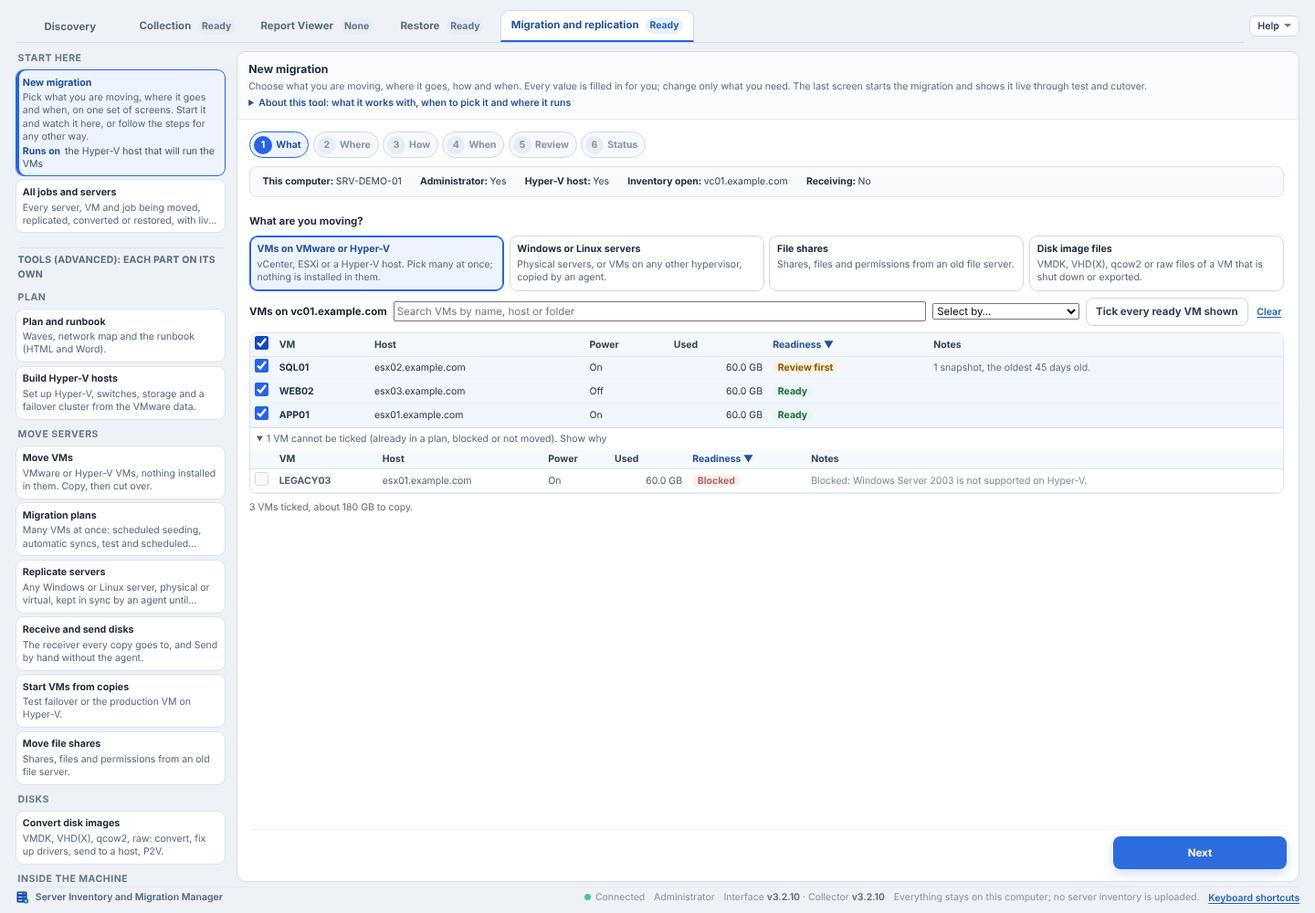
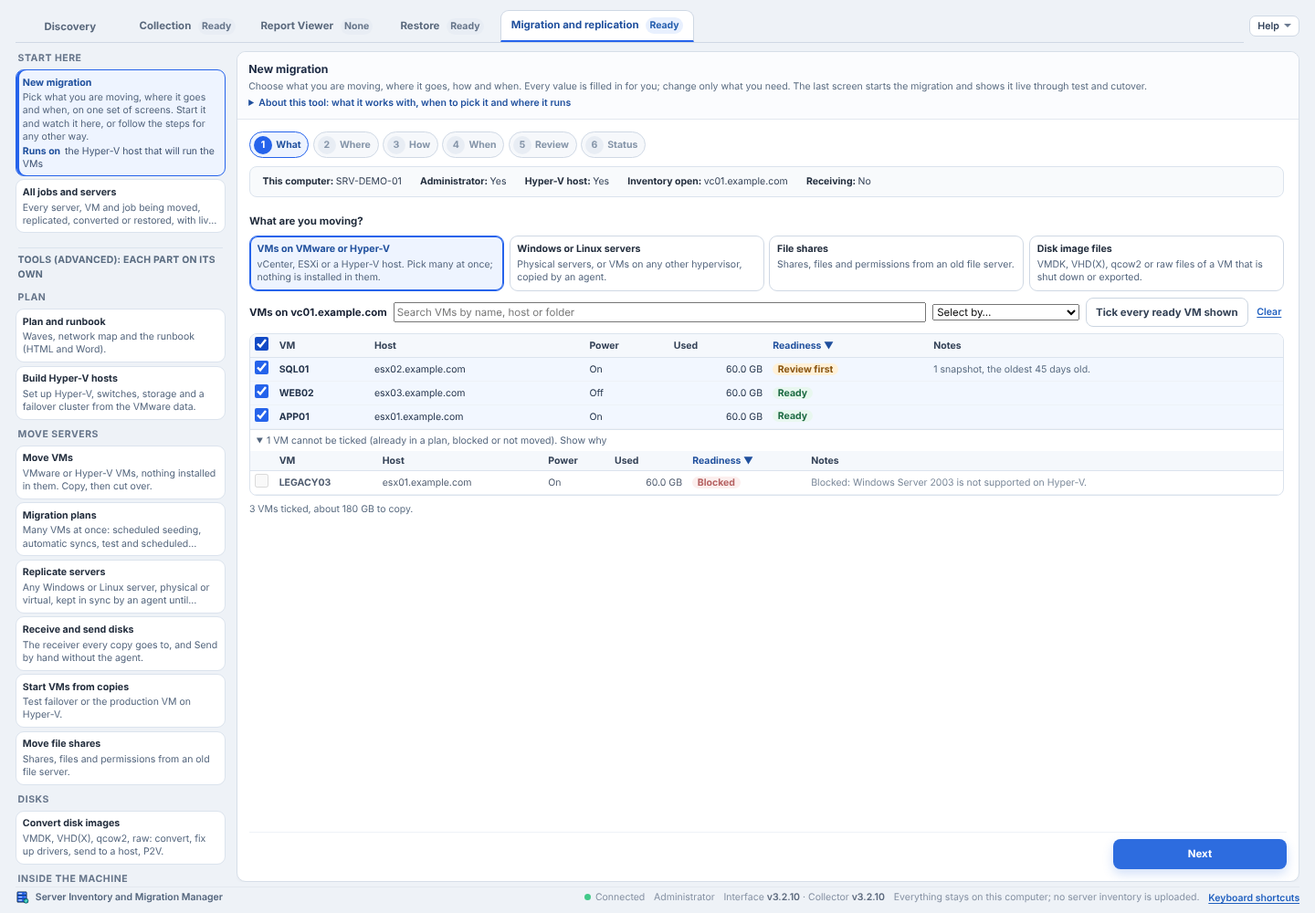
Keep controls together and apart: no stretched rows, touching or uneven controls
The owner found the cutover tick box stretched away from its label and
the Migration plans cutover panel's date field, tick box and buttons
touching at uneven heights. Width rules now name text inputs only, tick
boxes keep their size, action rows wrap with consistent gaps, buttons
share one height, stacked cards keep a gap, and the saved-defaults bar
and collection profile buttons no longer stretch. A workspace check now
fails on stretched tick boxes, touching or overlapping controls, uneven
buttons in a row, touching boxes and text cut off at the side.

Claude-Session: https://claude.ai/code/session_01AkZzWGj39Jf2hK2GLp79AC

Changed region(s): [[0.1875, 0.31, 0.9375, 0.558], [0.4688, 0.496, 0.8125, 0.558]]

diff --git a/src/app/index.html b/src/app/index.html
@@ -94,10 +94,10 @@ img, svg { -webkit-user-drag: none; }
 .action-bar { display: flex; align-items: center; justify-content: space-between; gap: calc(14*var(--sp)); margin-top: calc(18*var(--sp)); padding-top: calc(18*var(--sp)); border-top: 1px solid #e7ecf2; }
 .scope-note { color: #798699; font-size: max(10.5px,calc(11*var(--fz))); max-width: 590px; }
 .primary-button, .secondary-button { border-radius: 8px; font-weight: 650; }
-.primary-button { min-width: 190px; height: calc(44*var(--fz)); border: 0; background: #2d6cdf; color: #fff; box-shadow: 0 5px 12px rgba(45,108,223,.22); padding: 0 calc(18*var(--sp)); }
+.primary-button { min-width: 190px; height: calc(40*var(--fz)); border: 0; background: #2d6cdf; color: #fff; box-shadow: 0 5px 12px rgba(45,108,223,.22); padding: 0 calc(18*var(--sp)); }
 .primary-button:hover { background: #245fbf; }
 .primary-button:disabled { background: #a6b3c6; box-shadow: none; cursor: default; }
-.secondary-button { min-height: calc(38*var(--fz)); border: 1px solid #cbd5e1; background: #fff; color: #334155; padding: 0 calc(14*var(--sp)); }
+.secondary-button { min-height: calc(40*var(--fz)); border: 1px solid #cbd5e1; background: #fff; color: #334155; padding: 0 calc(14*var(--sp)); }
 .secondary-button:hover:not(:disabled) { background: #f4f7fa; }
 .secondary-button:disabled { opacity: .5; cursor: default; }
 .danger-button { color: #a33b3b; border-color: #e3b7b7; background: #fffafa; }
@@ -175,7 +175,7 @@ img, svg { -webkit-user-drag: none; }
   .report-frame, .report-empty { min-height: 620px; height: 720px; }
 }
 
-.scope-heading,.scope-panel-head{display:flex;align-items:flex-start;justify-content:space-between;gap:calc(18*var(--sp));flex-wrap:wrap}.scope-buttons{display:flex;gap:calc(8*var(--sp));flex-wrap:wrap}.preset-button{min-height:calc(38*var(--fz))}.scope-panel{margin-top:calc(18*var(--sp));border:1px solid var(--border);border-radius:14px;padding:calc(16*var(--sp));background:rgba(255,255,255,.025)}.scope-title{font-weight:700;font-size:max(10.5px,calc(15*var(--fz)));margin-bottom:calc(4*var(--sp))}.scope-count{font-size:max(10.5px,calc(12*var(--fz)));color:var(--muted);font-weight:700;white-space:nowrap}.category-grid{display:grid;grid-template-columns:repeat(3,minmax(0,1fr));gap:calc(9*var(--sp));margin-top:calc(14*var(--sp))}.category-grid.compact{grid-template-columns:repeat(3,minmax(0,1fr))}.category-check{display:flex;gap:calc(10*var(--sp));align-items:flex-start;border:1px solid var(--border);border-radius:10px;padding:calc(10*var(--sp)) calc(11*var(--sp));background:var(--panel);cursor:pointer;min-width:0}.category-check:has(input:checked){border-color:var(--accent);background:var(--accent-soft)}.category-check input{margin-top:calc(3*var(--sp));flex:0 0 auto}.category-check span{min-width:0}.category-check strong{display:block;font-size:max(10.5px,calc(13*var(--fz)));line-height:1.25}.category-check small{display:block;color:var(--muted);font-size:max(10.5px,calc(11*var(--fz)));line-height:1.35;margin-top:calc(3*var(--sp))}.category-setting{margin-top:calc(13*var(--sp))}.export-panel{border-style:dashed}.sensitive-inline{margin-top:calc(14*var(--sp))}.sensitive-choice{border-color:rgba(235,180,70,.35)}@media(min-width:1800px){.category-grid,.category-grid.compact{grid-template-columns:repeat(4,minmax(0,1fr))}}@media(min-width:2300px){.category-grid,.category-grid.compact{grid-template-columns:repeat(5,minmax(0,1fr))}}@media(max-width:1100px){.category-grid,.category-grid.compact{grid-template-columns:repeat(2,minmax(0,1fr))}}@media(max-width:720px){.category-grid,.category-grid.compact{grid-template-columns:1fr}}
+.scope-heading{justify-content:flex-start!important}.scope-heading,.scope-panel-head{display:flex;align-items:flex-start;justify-content:space-between;gap:calc(18*var(--sp));flex-wrap:wrap}.scope-buttons{display:flex;gap:calc(8*var(--sp));flex-wrap:wrap}.preset-button{min-height:calc(38*var(--fz))}.scope-panel{margin-top:calc(18*var(--sp));border:1px solid var(--border);border-radius:14px;padding:calc(16*var(--sp));background:rgba(255,255,255,.025)}.scope-title{font-weight:700;font-size:max(10.5px,calc(15*var(--fz)));margin-bottom:calc(4*var(--sp))}.scope-count{font-size:max(10.5px,calc(12*var(--fz)));color:var(--muted);font-weight:700;white-space:nowrap}.category-grid{display:grid;grid-template-columns:repeat(3,minmax(0,1fr));gap:calc(9*var(--sp));margin-top:calc(14*var(--sp))}.category-grid.compact{grid-template-columns:repeat(3,minmax(0,1fr))}.category-check{display:flex;gap:calc(10*var(--sp));align-items:flex-start;border:1px solid var(--border);border-radius:10px;padding:calc(10*var(--sp)) calc(11*var(--sp));background:var(--panel);cursor:pointer;min-width:0}.category-check:has(input:checked){border-color:var(--accent);background:var(--accent-soft)}.category-check input{margin-top:calc(3*var(--sp));flex:0 0 auto}.category-check span{min-width:0}.category-check strong{display:block;font-size:max(10.5px,calc(13*var(--fz)));line-height:1.25}.category-check small{display:block;color:var(--muted);font-size:max(10.5px,calc(11*var(--fz)));line-height:1.35;margin-top:calc(3*var(--sp))}.category-setting{margin-top:calc(13*var(--sp))}.export-panel{border-style:dashed}.sensitive-inline{margin-top:calc(14*var(--sp))}.sensitive-choice{border-color:rgba(235,180,70,.35)}@media(min-width:1800px){.category-grid,.category-grid.compact{grid-template-columns:repeat(4,minmax(0,1fr))}}@media(min-width:2300px){.category-grid,.category-grid.compact{grid-template-columns:repeat(5,minmax(0,1fr))}}@media(max-width:1100px){.category-grid,.category-grid.compact{grid-template-columns:repeat(2,minmax(0,1fr))}}@media(max-width:720px){.category-grid,.category-grid.compact{grid-template-columns:1fr}}
 
 
 /* Executable updater banner. */
@@ -398,7 +398,7 @@ kbd{display:inline-block;min-width:20px;padding:1px calc(6*var(--sp));border:1px
 .restore-confirm-input{display:block;box-sizing:border-box;width:100%;height:calc(34*var(--fz));margin-top:calc(6*var(--sp));border:1px solid #bcc9d9;border-radius:7px;padding:0 calc(10*var(--sp));font:inherit}
 .restore-dialog-actions{display:flex;justify-content:flex-end;flex-wrap:wrap;gap:calc(8*var(--sp));padding:calc(10*var(--sp)) calc(18*var(--sp)) calc(14*var(--sp));border-top:1px solid #e3e8ef}
 .restore-dialog-error{margin-top:calc(8*var(--sp));color:#a33b3b;font-size:max(10.5px,calc(12*var(--fz)));font-weight:600}
-.cfm-tick{display:flex;align-items:flex-start;gap:calc(8*var(--sp));margin-top:calc(8*var(--sp));font-size:max(10.5px,calc(12.5*var(--fz)));font-weight:600;color:#23334b;line-height:1.35;cursor:pointer}.cfm-tick input{margin:2px 0 0;flex:0 0 auto;width:15px;height:15px}
+.cfm-tick{display:flex;align-items:flex-start;gap:calc(8*var(--sp));margin-top:calc(8*var(--sp));font-size:max(10.5px,calc(12.5*var(--fz)));font-weight:600;color:#23334b;line-height:1.35;cursor:pointer}.cfm-tick input[type=checkbox]{margin:2px 0 0!important;flex:0 0 auto!important;width:15px!important;min-width:0!important;max-width:none!important;height:15px!important;display:inline-block!important;padding:0!important}
 .cfm-hint{color:#5b6b80;font-size:max(10.5px,calc(12*var(--fz)))}
 .cfm-styles{border:0;margin:0;padding:0;display:grid;gap:calc(8*var(--sp))}.cfm-styles legend{font-weight:650;color:#23334b;margin-bottom:calc(6*var(--sp));padding:0}
 .cfm-style{display:flex;gap:calc(10*var(--sp));align-items:flex-start;border:1px solid #d6dde8;border-radius:9px;padding:calc(8*var(--sp)) calc(10*var(--sp));cursor:pointer}.cfm-style input{margin-top:calc(3*var(--sp))}.cfm-style span{display:grid;gap:2px}.cfm-style small{color:#5b6b80;font-size:max(10.5px,calc(12*var(--fz)))}.cfm-style:has(input:checked){border-color:#2f6fb5;background:#f2f7fd}
@@ -503,7 +503,7 @@ kbd{display:inline-block;min-width:20px;padding:1px calc(6*var(--sp));border:1px
 .vm-wave-title{flex:1 1 120px;min-width:0;height:calc(28*var(--fz));border:1px solid #bcc9d9;border-radius:6px;padding:0 calc(8*var(--sp));font:inherit;font-size:max(10.5px,calc(12.5*var(--fz)));font-weight:600}
 .vm-wave-when{display:flex;align-items:center;gap:calc(4*var(--sp));font-size:max(10.5px,calc(11.5*var(--fz)));color:#52647c}.vm-wave-when input{height:calc(28*var(--fz));border:1px solid #bcc9d9;border-radius:6px;padding:0 calc(4*var(--sp));font:inherit;font-size:max(10.5px,calc(11.5*var(--fz)));max-width:190px}
 .vm-wave-stats{font-size:max(10.5px,calc(11.5*var(--fz)));color:#52647c}.vm-wave-reason{font-size:max(10.5px,calc(11.5*var(--fz)));color:#334156;background:#f2f6fb;border-radius:6px;padding:calc(5*var(--sp)) calc(7*var(--sp))}
-.vm-wave-vms{display:flex;flex-direction:column;gap:calc(4*var(--sp));max-height:260px;overflow:auto}
+.vm-wave-vms{display:flex;flex-direction:column;gap:max(5px,calc(5*var(--sp)));max-height:260px;overflow:auto}
 .vm-wave-vm{display:flex;align-items:center;gap:calc(7*var(--sp));border:1px solid #e0e6ee;border-radius:7px;padding:calc(4*var(--sp)) calc(6*var(--sp));background:#fff;cursor:grab}.vm-wave-vm.picked{border-color:#8fb0ec;background:#eef4ff}.vm-wave-vm input{width:15px;height:15px;margin:0;flex:none;accent-color:#2563eb}
 .vm-wave-vm-text{flex:1;min-width:0;display:flex;flex-direction:column}.vm-wave-vm-text strong{font-size:max(10.5px,calc(12*var(--fz)));overflow-wrap:anywhere}.vm-wave-vm-text .vm-sub{font-size:max(10.5px,calc(11*var(--fz)));white-space:nowrap;overflow:hidden;text-overflow:ellipsis}.vm-wave-vm .run-chip{min-width:0}
 .vm-wave-notes{height:calc(28*var(--fz));border:1px solid #d5dfec;border-radius:6px;padding:0 calc(8*var(--sp));font:inherit;font-size:max(10.5px,calc(11.5*var(--fz)))}
@@ -642,7 +642,7 @@ kbd{display:inline-block;min-width:20px;padding:1px calc(6*var(--sp));border:1px
 .rp-chip{display:inline-block;padding:2px calc(8*var(--sp));border-radius:10px;border:1px solid #d6e0ee;background:#f5f8fd;font-size:max(10.5px,calc(11*var(--fz)));color:#334156;white-space:nowrap}.rp-chip.good{border-color:#a7d8b8;background:#f2fbf5;color:#1f6a3a}.rp-chip.warning{border-color:#f0cf8a;background:#fff9ea;color:#74551f}.rp-chip.danger{border-color:#f1b3ad;background:#fff4f3;color:#9b2c22}
 .rp-jobs{margin-top:calc(8*var(--sp))}.rp-error{margin-top:calc(6*var(--sp));color:#9b2c22}.rp-editor,.rp-details{margin-top:calc(12*var(--sp))}.rp-disk-row{display:grid;grid-template-columns:minmax(0,1.4fr) minmax(0,1fr);gap:calc(4*var(--sp)) calc(12*var(--sp));align-items:end;padding:calc(6*var(--sp)) 0;border-bottom:1px solid #eef2f7}.rp-target select,.rp-target input{width:100%}.rp-disk-table{margin-top:calc(10*var(--sp))}
 @media (max-width:900px){.rp-grid,.rp-two,.rp-disk-row{grid-template-columns:minmax(0,1fr)}}
-.mp-body{display:flex;flex-direction:column;gap:calc(12*var(--sp));overflow-y:auto;overflow-x:hidden;min-height:0;flex:1 1 auto}.mp-plans{display:flex;flex-wrap:wrap;gap:calc(6*var(--sp));align-items:center}.mp-plan-button[aria-pressed="true"]{border-color:#2563eb;box-shadow:inset 0 0 0 1px #2563eb;background:#f7faff}.mp-open-note{padding:calc(8*var(--sp)) calc(10*var(--sp));border:1px solid #dbe3ed;border-radius:8px;background:#fbfcfe}.mp-open-note ul{margin:calc(4*var(--sp)) 0 0 calc(18*var(--sp));padding:0}.mp-picker{max-height:260px;overflow:auto;border:1px solid #dbe3ed;border-radius:8px;padding:calc(4*var(--sp)) calc(8*var(--sp));background:#fff}.mp-pick{display:flex;gap:calc(8*var(--sp));align-items:center;padding:calc(3*var(--sp)) 0;border-bottom:1px solid #f0f3f8;font-size:max(10.5px,calc(12.5*var(--fz)))}.mp-pick:last-child{border-bottom:0}.mp-pick .vm-note{margin-left:auto}.mp-pick.disabled{color:#7a8597}.mp-checks{display:grid;grid-template-columns:repeat(2,minmax(0,1fr));gap:calc(4*var(--sp)) calc(14*var(--sp));margin-top:calc(6*var(--sp))}.mp-checks label{font-size:max(10.5px,calc(12.5*var(--fz)));display:flex;gap:calc(6*var(--sp));align-items:flex-start}.mp-three{display:grid;grid-template-columns:repeat(3,minmax(0,1fr));gap:calc(8*var(--sp)) calc(12*var(--sp))}.mp-advice{padding:calc(8*var(--sp)) calc(10*var(--sp));border:1px solid #c9d6ea;border-radius:8px;background:#f5f8fd;font-size:max(10.5px,calc(12.5*var(--fz)))}.mp-actions{display:flex;flex-wrap:wrap;gap:calc(6*var(--sp));align-items:center}.mp-actions button{min-height:calc(30*var(--fz));padding:2px calc(12*var(--sp));font-size:max(10.5px,calc(12.5*var(--fz)))}.mp-actions input{max-width:220px}.mp-table td{vertical-align:top}.mp-table .vm-note{display:block}.mp-err{color:#9b2c22;font-size:max(10.5px,calc(12*var(--fz)));overflow-wrap:anywhere}.mp-notes{color:#1f6a3a;font-size:max(10.5px,calc(12*var(--fz)))}
+.mp-body{display:flex;flex-direction:column;gap:calc(12*var(--sp));overflow-y:auto;overflow-x:hidden;min-height:0;flex:1 1 auto}.mp-plans{display:flex;flex-wrap:wrap;gap:calc(6*var(--sp));align-items:center}.mp-plan-button[aria-pressed="true"]{border-color:#2563eb;box-shadow:inset 0 0 0 1px #2563eb;background:#f7faff}.mp-open-note{padding:calc(8*var(--sp)) calc(10*var(--sp));border:1px solid #dbe3ed;border-radius:8px;background:#fbfcfe}.mp-open-note ul{margin:calc(4*var(--sp)) 0 0 calc(18*var(--sp));padding:0}.mp-picker{max-height:260px;overflow:auto;border:1px solid #dbe3ed;border-radius:8px;padding:calc(4*var(--sp)) calc(8*var(--sp));background:#fff}.mp-pick{display:flex;gap:calc(8*var(--sp));align-items:center;padding:calc(3*var(--sp)) 0;border-bottom:1px solid #f0f3f8;font-size:max(10.5px,calc(12.5*var(--fz)))}.mp-pick:last-child{border-bottom:0}.mp-pick .vm-note{margin-left:auto}.mp-pick.disabled{color:#7a8597}.mp-checks{display:grid;grid-template-columns:repeat(2,minmax(0,1fr));gap:calc(4*var(--sp)) calc(14*var(--sp));margin-top:calc(6*var(--sp))}.mp-checks label{font-size:max(10.5px,calc(12.5*var(--fz)));display:flex;gap:calc(6*var(--sp));align-items:flex-start}.mp-three{display:grid;grid-template-columns:repeat(3,minmax(0,1fr));gap:calc(8*var(--sp)) calc(12*var(--sp))}.mp-advice{padding:calc(8*var(--sp)) calc(10*var(--sp));border:1px solid #c9d6ea;border-radius:8px;background:#f5f8fd;font-size:max(10.5px,calc(12.5*var(--fz)))}.mp-actions{display:flex;flex-wrap:wrap;gap:calc(10*var(--sp)) calc(12*var(--sp));align-items:flex-end;margin-top:calc(8*var(--sp))}.mp-actions .cfm-tick{margin:0 0 calc(7*var(--sp));align-items:center}.mp-actions .vm-field{margin-top:0}.mp-actions:not(:has(.vm-field)){align-items:center}.mp-actions .vm-field input{height:calc(32*var(--fz));box-sizing:border-box;border:1px solid #bcc9d9;border-radius:7px;padding:0 calc(9*var(--sp));font:inherit;font-size:max(10.5px,calc(13*var(--fz)));background:#fff;color:inherit}:not(.migrate-cards)>.migrate-card+.migrate-card,.mp-actions+.migrate-card{margin-top:max(8px,calc(12*var(--sp)))}.mp-actions button{height:auto;min-width:0;min-height:calc(32*var(--fz));padding:2px calc(12*var(--sp));font-size:max(10.5px,calc(12.5*var(--fz)))}.mp-actions input{max-width:220px}.mp-table td{vertical-align:top}.mp-table .vm-note{display:block}.mp-err{color:#9b2c22;font-size:max(10.5px,calc(12*var(--fz)));overflow-wrap:anywhere}.mp-notes{color:#1f6a3a;font-size:max(10.5px,calc(12*var(--fz)))}
 @media (max-width:900px){.mp-checks,.mp-three{grid-template-columns:minmax(0,1fr)}}
 .vm-flow-arrow{color:#52647c;white-space:nowrap}
 .vm-guest-cards{grid-template-columns:repeat(2,minmax(0,1fr))}
@@ -723,7 +723,7 @@ kbd{display:inline-block;min-width:20px;padding:1px calc(6*var(--sp));border:1px
 .nw-rolling-stage{margin-bottom:calc(6*var(--sp))}
 .nw-rolling-head{display:flex;gap:calc(8*var(--sp));align-items:center}
 .profile-bar .migrate-row{align-items:flex-end;flex-wrap:wrap;gap:calc(8*var(--sp))}
-.profile-bar .vm-field{min-width:200px}
+.profile-bar .vm-field{min-width:200px;flex:0 1 280px;margin-top:0}.profile-bar{margin-bottom:calc(12*var(--sp))}.profile-bar .migrate-row{align-items:flex-end}.profile-bar select,.profile-bar .vm-field input[type=text]{height:calc(34*var(--fz));box-sizing:border-box;border:1px solid #bcc9d9;border-radius:7px;padding:0 calc(9*var(--sp));font:inherit;font-size:max(10.5px,calc(13*var(--fz)));background:#fff;color:inherit}.profile-bar .link-button{height:calc(34*var(--fz))}.migrate-row .vm-field input[type=text],.migrate-row .vm-field input[type=password],.migrate-row .vm-field select{flex:0 0 auto;max-width:none;width:100%}
 .mp-go-list{display:grid;grid-template-columns:repeat(auto-fit,minmax(300px,1fr));gap:calc(8*var(--sp))}
 .mp-go{border:1px solid var(--line);border-radius:8px;padding:calc(8*var(--sp)) calc(10*var(--sp));background:var(--panel)}
 .mp-go-head{display:flex;align-items:center;gap:calc(8*var(--sp));margin-bottom:calc(4*var(--sp))}
@@ -794,7 +794,7 @@ kbd{display:inline-block;min-width:20px;padding:1px calc(6*var(--sp));border:1px
 .gd-step:not(.current){cursor:pointer;padding-top:calc(7*var(--sp));padding-bottom:calc(7*var(--sp))}.gd-step:not(.current) .gd-text,.gd-step:not(.current) .gd-actions,.gd-step:not(.current) .gd-fix,.gd-step:not(.current) .gd-nav{display:none}.gd-step:not(.current) .gd-check{background:none;padding:0}
 .gd-step.current{border-color:#2563eb;box-shadow:0 0 0 2px rgba(37,99,235,.15)}.gd-step.optional:not(.current){opacity:.86}.gd-step.optional:not(.current) .gd-check{display:none}
 .gd-opt{padding:1px calc(8*var(--sp));border-radius:999px;background:#f1f4f8;color:#596b80;font-size:max(10.5px,calc(11*var(--fz)));font-weight:700}
-.gd-fix{display:flex;flex-wrap:wrap;align-items:center;gap:calc(6*var(--sp)) calc(10*var(--sp));padding:calc(8*var(--sp));border:1px dashed #efc2c2;border-radius:8px;background:#fff}.gd-fix input{min-width:200px}
+.gd-fix{display:flex;flex-wrap:wrap;align-items:center;gap:calc(6*var(--sp)) calc(10*var(--sp));padding:calc(8*var(--sp));border:1px dashed #efc2c2;border-radius:8px;background:#fff}.gd-fix input:not([type=checkbox]):not([type=radio]){min-width:200px}
 .gd-nav{display:flex;flex-wrap:wrap;gap:calc(8*var(--sp));justify-content:flex-end;border-top:1px solid #eef2f7;padding-top:calc(8*var(--sp))}
 .gd-optional-toggle{margin:2px 0 0}
 .tool-section-title{margin:calc(10*var(--sp)) calc(4*var(--sp)) 2px;padding-top:calc(8*var(--sp));border-top:1px solid #dbe3ed;font-size:max(10.5px,calc(11*var(--fz)));font-weight:700;letter-spacing:.02em;text-transform:uppercase;color:#596b80}
@@ -815,7 +815,7 @@ kbd{display:inline-block;min-width:20px;padding:1px calc(6*var(--sp));border:1px
 .nw-nav .primary-button{margin-left:auto}
 .nw-running{display:flex;flex-wrap:wrap;align-items:center;gap:calc(6*var(--sp)) calc(10*var(--sp));padding:calc(8*var(--sp)) calc(10*var(--sp));border:1px solid #c9d6ea;border-radius:9px;background:#f5f8fd;font-size:max(10.5px,calc(12.5*var(--fz)))}
 .nw-signin{display:flex;flex-direction:column;gap:calc(6*var(--sp));padding:calc(10*var(--sp)) calc(12*var(--sp));border:1px dashed #9db8e6;border-radius:9px;background:#fbfcfe}.nw-signin .migrate-help{margin:0}
-.nw-signin .migrate-row input{min-width:160px;flex:1}
+.nw-signin .migrate-row input:not([type=checkbox]):not([type=radio]){min-width:160px;flex:1}
 .nw-vm-head{display:flex;flex-wrap:wrap;align-items:center;gap:calc(6*var(--sp)) calc(10*var(--sp))}.nw-vm-head input[type=search]{flex:1;min-width:200px}
 .nw-vm-list{max-height:52vh;overflow:auto;border:1px solid #dbe3ed;border-radius:8px;background:#fff}
 .nw-vm-table{width:100%;border-collapse:collapse;font-size:max(10.5px,calc(12.5*var(--fz)))}.nw-vm-table th{position:sticky;top:0;background:#f5f8fc;z-index:1;text-align:left;padding:calc(4*var(--sp)) calc(8*var(--sp));border-bottom:1px solid #dbe3ed}.nw-vm-table td{padding:calc(4*var(--sp)) calc(8*var(--sp));border-bottom:1px solid #eef2f7;vertical-align:middle}
@@ -838,9 +838,9 @@ kbd{display:inline-block;min-width:20px;padding:1px calc(6*var(--sp));border:1px
 .nw-check-icon{min-width:34px;font-weight:700;font-size:max(10.5px,calc(11*var(--fz)));text-transform:uppercase}
 .nw-status-title{display:flex;flex-wrap:wrap;align-items:baseline;gap:calc(4*var(--sp)) calc(12*var(--sp))}.nw-status-title strong{font-size:max(10.5px,calc(15*var(--fz)))}.nw-status-tools{margin-left:auto;display:flex;flex-wrap:wrap;gap:calc(6*var(--sp)) calc(12*var(--sp));align-items:center}
 .nw-tiles{margin:calc(8*var(--sp)) 0 calc(4*var(--sp))}
-.nw-status-table{table-layout:fixed;width:100%}.nw-status-table td:nth-child(1){width:34px}.nw-status-table td:nth-child(2){width:24%}.nw-status-table td:nth-child(4){width:22%}
+.nw-status-table{table-layout:fixed;width:100%}.nw-status-table td:nth-child(1){width:34px}.nw-status-table td:nth-child(2){width:clamp(140px,15%,260px)}.nw-status-table td:nth-child(4){width:clamp(150px,16%,280px)}
 .nw-wave{margin-top:calc(8*var(--sp))}.nw-wave-head{display:flex;flex-wrap:wrap;align-items:baseline;gap:calc(4*var(--sp)) calc(12*var(--sp));margin-bottom:calc(4*var(--sp))}
-.nw-status-actions{display:flex;flex-wrap:wrap;align-items:center;gap:calc(6*var(--sp)) calc(10*var(--sp));padding-top:calc(8*var(--sp));border-top:1px solid #eef2f7}.nw-status-actions input{min-width:220px}
+.nw-status-actions{display:flex;flex-wrap:wrap;align-items:center;justify-content:flex-start;gap:calc(6*var(--sp)) calc(10*var(--sp));padding-top:calc(8*var(--sp));border-top:1px solid #eef2f7}.nw-status-actions>.vm-note{flex:1 0 100%}.nw-status-actions input[type=text]{min-width:220px}.nw-status-actions .cfm-tick{margin-top:0;align-items:center}.nw-status-actions .migrate-inline-status{flex:1 1 220px;margin:0;min-width:0}
 @media(max-width:900px){.nw-methods{grid-template-columns:1fr}.nw-summary{grid-template-columns:1fr}}
 @media(max-width:900px){.gd-choices{grid-template-columns:repeat(auto-fit,minmax(150px,1fr))}.gd-choice span{display:none}}
 @media(max-height:720px){.vm-table-wrap{max-height:230px}.vm-bar{padding-top:6px}.vm-counts{margin-top:6px}.vm-count strong{font-size:15px}}
@@ -856,12 +856,11 @@ kbd{display:inline-block;min-width:20px;padding:1px calc(6*var(--sp));border:1px
 @media(max-width:800px){.metric-label{font-size:11px;letter-spacing:0}.brand-subtitle{font-size:11px}}
 @media(min-width:1101px) and (max-width:1439px){.tool-nav{flex-basis:216px;gap:10px}.tool-item{padding:7px 9px}.tool-layout{gap:10px}.sidebar{flex-basis:220px;width:220px;margin-right:12px}}
 @media(max-height:720px){
- .topbar,.topbar-inner{height:46px}.topbar{flex-basis:46px}.brand-subtitle{display:none}.brand-title{font-size:15px}
- .brand-mark,.brand-mark img{width:28px;height:28px}.brand-mark{flex-basis:28px;margin-right:9px}.help-button{height:28px}.help-list{top:33px}
+ .help-button{height:28px}.help-list{top:33px}
  .hero{display:none}.footer{margin-top:4px}.status-note{display:none}.page{padding-top:8px;padding-bottom:6px}
  .app-tabs{margin-bottom:8px}.tab-button{height:34px}.app-notice{margin-bottom:8px;padding:6px 10px}
  .card-header{padding:8px 14px}.card-header .card-subtitle{display:none}.card-body{padding:12px 14px}
- .setup-action-bar{padding:8px 14px}.primary-button{height:36px;box-shadow:none}.secondary-button{min-height:32px}
+ .setup-action-bar{padding:8px 14px}.primary-button{height:34px;box-shadow:none}.secondary-button{min-height:34px}
  .sidebar .card{margin-bottom:8px}.server-panel{padding:10px 14px}.server-label{margin-bottom:6px}.info-row{padding:5px 0}.workflow{padding:3px 0}.workflow-step{padding:7px 12px}.workflow-desc{display:none}
  .status-header{margin-bottom:8px}.status-indicator{box-shadow:none}.current-step{margin-top:8px;padding:5px 10px}
  .metric-row{margin-top:8px}.metric{padding:4px 10px;display:flex;align-items:baseline;justify-content:space-between;gap:8px}.metric-value{font-size:15px;margin:0}

diff --git a/AGENTS.md b/AGENTS.md
@@ -162,6 +162,6 @@ README application screenshots in `docs/images/` are captured from the real `src
 59. File shares between two other servers (2026-11-27, owner: "Can file shares be migrated from one remote machine to another remote machine, or does the target machine have to run the software"). Move file shares' **New server: Another server** (`#migrateTargetOther`, `#migrateTarget`, the new server's account radios `migrateTargetAccount*`) runs from any admin computer without administrator rights there. `src/app/Invoke-ShareMigrationRemote.ps1` (PowerShell 3.0, signed in `release.yml`, run with `-ExecutionPolicy RemoteSigned`, never Bypass) opens two PSSessions to the new server: one runs `Migrate-FileShares.ps1`'s text as a script block with `-Embedded` (the engine returns its exit code and must never call `exit` outside its main block; `TestShareMigrationRunnerUsesOnlyPowerShellRemoting` checks) and `-LogPath` (lines go to a shared-read file), the other polls that log every 2 seconds and writes the stop file. So the new server pulls from the old one with Robocopy: files cross the network once, never through the admin computer. Never relay file data through the admin computer, copy a program to either server, create a service or task, start a process through WMI, use CredSSP or encoded commands, or change TrustedHosts. Windows cannot pass the admin computer's sign-in on (double hop), so the old server's account is always typed for a remote move and used inside the new server through the engine's `WNetAddConnection2` and CIM `-Credential`; the new server's account is the same one, this Windows account or another. Both reach PowerShell only as one JSON line on standard input (`migrateRemoteInputLocked`) and stay in `migrateRuntime` until Start over or exit; never in logs, files, `state.json` or the state response (user names only). The engine keeps data under `%ProgramData%\Server Inventory and Migration Manager\File-Share-Migration\<SOURCE>` on the new server (protected to SYSTEM and Administrators), removes its `Runs\<guid>` folder after each run, and holds `Engine.lock` so two runs never overlap. Only Discover, Precheck, Sync, Cutover, SourceReadOnly and SourceRestore run inside the new server (`migrateRemoteModes`); DfsReport, AliasCheck and Alias run on the admin computer with `-TargetName`. The admin computer's work folder is `Migrations\<SOURCE>_TO_<TARGET>` (`migrateWorkKey`; a move to this computer keeps `Migrations\<SOURCE>` so saved migrations resume). New folders are checked by `migrateRemoteFolderProblem` (Windows, Program Files, ProgramData, Users, drive roots, `..`) and browsed through `/api/pick` kind `remote` (rule 48), never this computer's picker. Confirmations use the new server's name (`migrateConfirmName`, `migrateConfirmMatches` accepts the short or full name). **Keep copying until cutover** (`#migrateAuto`, `/api/migrate/autosync`, 0 or 15 to 1440 minutes, `migrateCheckAutoSync`) works for both targets: `runMigrateScheduler` ticks every 20 seconds while the application is open, runs a copy through the same `beginMigrateStep` path as Copy, says why it waits (`autoSyncWaiting`: plan not checked, password missing after a restart), needs one confirmation when a share allows overwrite (reset when the plan changes), and turns off after a successful cutover. New migration offers the target `fileremote` (Another file server) for the shares source, with its own steps (`gdSteps`, `adminfs`), and its hand-off presets Another server. `scripts/Test-Migration.ps1` runs Discover, Precheck, Sync and Cutover through the runner to localhost with the runner's address as the old server and the synthetic account; `TestMigrateToAnotherServerFromAnAdminComputer` covers the Go side on Windows; the workspace check "Migrate from an admin computer" covers the page. Not field-validated: two real servers across a domain, and WinRM to a new server in another domain or workgroup. One file share migration at a time per application window (`migrateRuntime`).
 
 61. Update channels and the test branch (2026-11-27, owner: "a new test branch or something so that the main application can't auto update to it ... a Test opt-in option ... that opt in will allow the choice of updating to the new test branch or the main version branch ... developed in parallel but only updated to by choice"; "the test branch must also be signed"). Two channels, rules in untagged `update_channel.go`: **Stable** (default) reads only `updateFeedURL` (`releases/latest`, which never names a prerelease) and never offers a test build, even when one is newer; **Test** (Help > Settings, `#updateTestChannel`, `/api/update/channel`, saved in `Settings\update-channel.json`, a separate file so rollback versions never rewrite it) also reads `testReleasesURL` (the only `api.github.com` request, ETag-conditional, Test channel only) and the newest published test prerelease's manifest from `releases/download/<tag>/` (`pickTestRelease`), and offers the newer of the two (`chooseUpdate`). Choosing Stable while a test build runs offers the newest stable build even though its number is lower (`ToStable`, the only downgrade the updater makes). Cached, failed or offline checks still never mean up to date (rule 6), and nothing downloads or installs by itself (rule 7). Versions: stable `X.Y.Z`; test builds `X.Y.Z-test.N` (N from 1, ordered before `X.Y.Z` by `compareVersions`), with N as the Windows version resource's build field (`build_resources.py`, `validateVersionResource`) and the string version in FileVersion/ProductVersion; a test build keeps `collectorVersion` and the collector's `$scriptVersion` at `X.Y.Z` so baseline provenance is unchanged (`Test-Source.ps1` compares the base). Branches: stable work follows rule 57 (PRs into `release/next`, batched to `main`); test-channel work (features that should reach testers first) branches from the long-lived `test` branch and opens PRs with base `test`, which get the quick Linux checks only, while pushes to `test` run the full suite. `release.yml` publishes a stable release only from `main` and a test build only from `test` (its `release/VERSION` holds `X.Y.Z-test.N` and `docs/release-notes/X.Y.Z-test.N.md` must exist), signed with the same Azure Artifact Signing steps and checks as stable (rule 26: never unsigned), created and published with `--prerelease --latest=false`, verified from its own tag with the stable feed checked unchanged (`Verify-PublicRelease.ps1`); the published-upgrade job runs only for stable releases. Ask the owner before publishing either kind. Keep `test` current by merging `release/next` (or `main` after a release) into it; never rebase or force-push `test`. When test work graduates, merge `test` into `release/next` through a pull request and keep `release/next`'s `release/VERSION`, `appVersion` and release notes. Stable installs older than the release that added the channel know only the stable feed and are unaffected. The `release` environment must allow the `test` branch for signing to run there. `update_channel_test.go`, `TestTestChannelOffersTestBuildsOnlyAfterOptIn` and the workspace check "Help > Settings opts in to the Test update channel" cover it.
-62. Migration UX (2026-11-27, owner: "the migration UI and UX overall could use some improvement ... make it more intuitive"; built on the `test` branch so only opted-in installs get it). Tool lists show each tool's name and one line; the selected tool alone says where it runs, and Works with, Pick this when and Runs on fold into the pane's **About this tool** (`renderToolWorks`, `#toolAbout-<pane>`); there is no header bar and no banner above the tabs on any screen (owner 2026-11-27: "this header takes up valuable vertical space", "this header might also not be needed"): Help sits at the right of the tab row (`.tab-row`), and a slim status bar at the bottom of the window (`.status-bar`, the `.footer` element) holds the icon and name (`.brand-mark img`, `.brand-title`, which the icon and upgrade tests read), the connection (`#statusConnection`, red with `showConnectionClosed`), administrator rights (`#elevationBadge`, a warning when not elevated), the Interface and Collector versions and **Keyboard shortcuts** (also in Help). The bar stays visible at every size and drops its note and name when space is short. There is no Portable EXE badge. Empty screens use `emptyState` and offer New migration (`nwStartWith`). New migration's VM picker is a sortable table (`nwVmTable`, `data-nw-sort`, `#nwPickShown` ticks only the rows shown) with VMs that cannot move folded into `.nw-vm-off`; finished steps in the step bar show what was chosen (`nwStepSummary`) and open again on click. Discovery starts a migration with the VMs it shows (`data-bulk="migrate"`, `#vmNwVmButton`, `#vmNwScopeButton`, `nwStartWithVMs`, counting only VMs `nwPickWhy` allows). Each plan VM and All servers row shows a status track (`statusTrack`, `planTrack`, `rowTrack`: Copy, In sync, Tested, Cut over, Fixed up) with the next step; a finished test is `mbVM.TestedAt` (row `tested`). Error text is explained by `errorCatalog` (`errorHelp`): the raw text always stays beside it (`.mp-err`, `.as-reason`), and a fix button appears only when the screen offers that fix (`vmErrorFixes`; `mpRetryVM` copies one VM again through the plan's own `sync`). The activity strip (`#activityStrip`, `renderActivity`) under the top tabs counts what moves now from `/api/servers` (the existing 30-second poll) on every screen but All jobs and servers, and each count opens that list filtered. Add a new error pattern to `errorCatalog` rather than rewording Go errors, and keep every explanation true to what the code does. Migration plans show **Ready to cut over? Wave by wave** (`renderMpGoNoGo`, `mpGoChecks`): per wave still to cut over, first copies, failures, running tests, recent syncs (twice the sync interval), tests done (`testedAt`) and SQL Server or domain controller findings (`dc-`, `sql-`, `preflight-` codes in the VM's Hyper-V readiness; blockers block); **Cut over wave N…** only selects that wave for the existing cutover and its confirmation, never a second cutover path. The separate "When to use this" box is gone (About this tool says it), and Move VMs' Hyper-V section points to New migration (`#vmMovePlanButton`, a plan of one VM) while keeping the by-hand steps. Saved defaults per customer (`migration_profiles.go`, `/api/profiles`, `Settings\migration-profiles.json`, at most 50, a separate file so rollback versions never rewrite settings.json) hold folders, the network map, sync interval, concurrency, bandwidth and plan options, never an account, password, key or pairing code; `profileBar` offers them in New migration's Where and the Migration plans form (`profileKeep` keeps the choice across re-renders), and using one only fills fields. New migration's When offers **Rolling conversion** for VMware VMs to Hyper-V (`nwRollingOffered`, `renderNwRolling`): it turns on rule 46's rolling scenario with suggested stages through the plan's own save, lists each stage (move the wave, then rebuild the host in Build Hyper-V hosts) with its fit check, and uses the stage waves; it changes no host.
+62. Migration UX (2026-11-27, owner: "the migration UI and UX overall could use some improvement ... make it more intuitive"; built on the `test` branch so only opted-in installs get it). Tool lists show each tool's name and one line; the selected tool alone says where it runs, and Works with, Pick this when and Runs on fold into the pane's **About this tool** (`renderToolWorks`, `#toolAbout-<pane>`); there is no header bar and no banner above the tabs on any screen (owner 2026-11-27: "this header takes up valuable vertical space", "this header might also not be needed"): Help sits at the right of the tab row (`.tab-row`), and a slim status bar at the bottom of the window (`.status-bar`, the `.footer` element) holds the icon and name (`.brand-mark img`, `.brand-title`, which the icon and upgrade tests read), the connection (`#statusConnection`, red with `showConnectionClosed`), administrator rights (`#elevationBadge`, a warning when not elevated), the Interface and Collector versions and **Keyboard shortcuts** (also in Help). The bar stays visible at every size and drops its note and name when space is short. There is no Portable EXE badge. Empty screens use `emptyState` and offer New migration (`nwStartWith`). New migration's VM picker is a sortable table (`nwVmTable`, `data-nw-sort`, `#nwPickShown` ticks only the rows shown) with VMs that cannot move folded into `.nw-vm-off`; finished steps in the step bar show what was chosen (`nwStepSummary`) and open again on click. Discovery starts a migration with the VMs it shows (`data-bulk="migrate"`, `#vmNwVmButton`, `#vmNwScopeButton`, `nwStartWithVMs`, counting only VMs `nwPickWhy` allows). Each plan VM and All servers row shows a status track (`statusTrack`, `planTrack`, `rowTrack`: Copy, In sync, Tested, Cut over, Fixed up) with the next step; a finished test is `mbVM.TestedAt` (row `tested`). Error text is explained by `errorCatalog` (`errorHelp`): the raw text always stays beside it (`.mp-err`, `.as-reason`), and a fix button appears only when the screen offers that fix (`vmErrorFixes`; `mpRetryVM` copies one VM again through the plan's own `sync`). The activity strip (`#activityStrip`, `renderActivity`) under the top tabs counts what moves now from `/api/servers` (the existing 30-second poll) on every screen but All jobs and servers, and each count opens that list filtered. Add a new error pattern to `errorCatalog` rather than rewording Go errors, and keep every explanation true to what the code does. Migration plans show **Ready to cut over? Wave by wave** (`renderMpGoNoGo`, `mpGoChecks`): per wave still to cut over, first copies, failures, running tests, recent syncs (twice the sync interval), tests done (`testedAt`) and SQL Server or domain controller findings (`dc-`, `sql-`, `preflight-` codes in the VM's Hyper-V readiness; blockers block); **Cut over wave N…** only selects that wave for the existing cutover and its confirmation, never a second cutover path. The separate "When to use this" box is gone (About this tool says it), and Move VMs' Hyper-V section points to New migration (`#vmMovePlanButton`, a plan of one VM) while keeping the by-hand steps. Saved defaults per customer (`migration_profiles.go`, `/api/profiles`, `Settings\migration-profiles.json`, at most 50, a separate file so rollback versions never rewrite settings.json) hold folders, the network map, sync interval, concurrency, bandwidth and plan options, never an account, password, key or pairing code; `profileBar` offers them in New migration's Where and the Migration plans form (`profileKeep` keeps the choice across re-renders), and using one only fills fields. New migration's When offers **Rolling conversion** for VMware VMs to Hyper-V (`nwRollingOffered`, `renderNwRolling`): it turns on rule 46's rolling scenario with suggested stages through the plan's own save, lists each stage (move the wave, then rebuild the host in Build Hyper-V hosts) with its fit check, and uses the stage waves; it changes no host. Controls stay together on wide windows (2026-11-27, owner: "fix this gap and any other UI/UX issues"): a container's `input{...}` width rule must name text inputs (`input[type=text]`, or `:not([type=checkbox]):not([type=radio])`), because a tick box that takes it stretches away from its label (the Status step's cutover tick was 220 px wide); `.cfm-tick` boxes keep 15 px whatever their container says, and action rows put the explanation on its own line, then the tick box, the button and the reason it is off side by side. `apartControls` in `scripts/test_workspace.cjs` fails on a tick box or radio wider than 24 px or more than 32 px from its own label, in every tool and New migration screen at three sizes and on the Status step at 1904 and 2560 px; It also fails (owner, same day: "fix UI issues like this where ui elements collide or touch inappropriately") on controls side by side with less than 4 px between them, overlapping controls, buttons of different heights in one row, bordered boxes stacked with less than 4 px between them and text cut off at the side; an input joined to its Browse button (`.path-row`, `.path-pick`) is one control, and elements hidden by a scroll box or a closed `<details>` are skipped. Primary and secondary buttons share one height (`calc(40*var(--fz))`, 34 px in the compact layout) so they line up in a row. `SIMM_SWEEP=<folder>` also saves a 1904 px screenshot of each for review.
 
 Where this file's project-specific rules differ from the shared standard, this file wins; an enforced check script wins over both.
